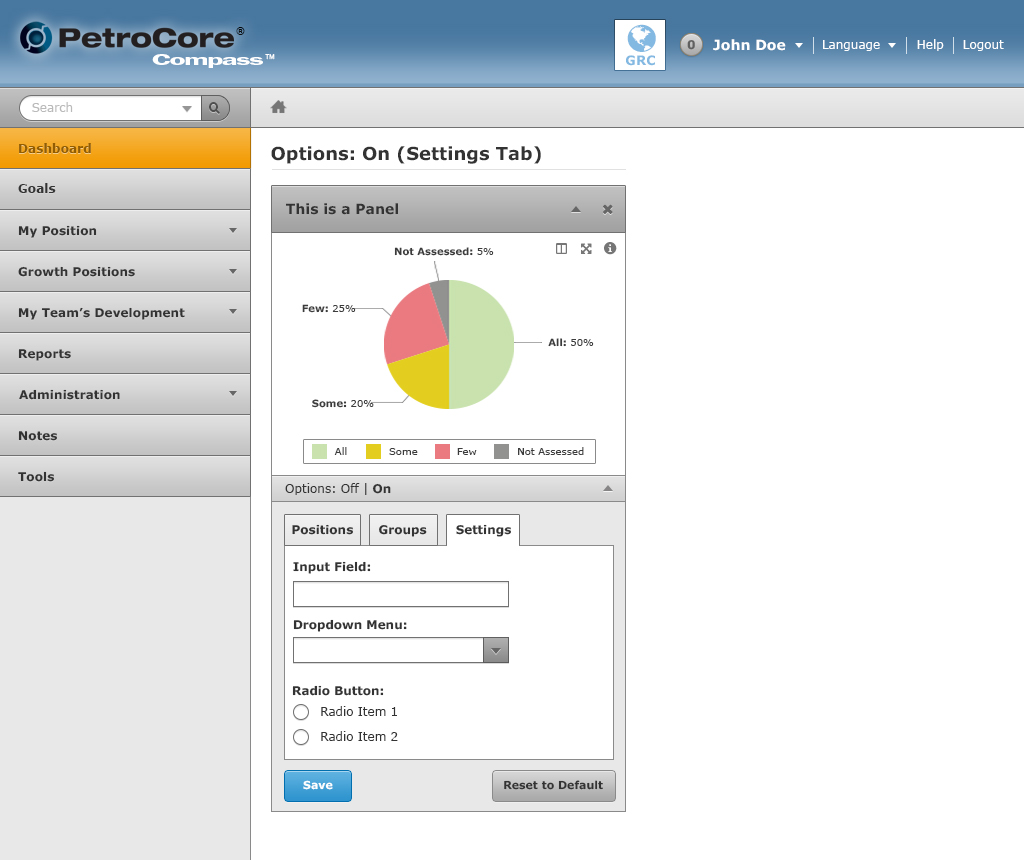
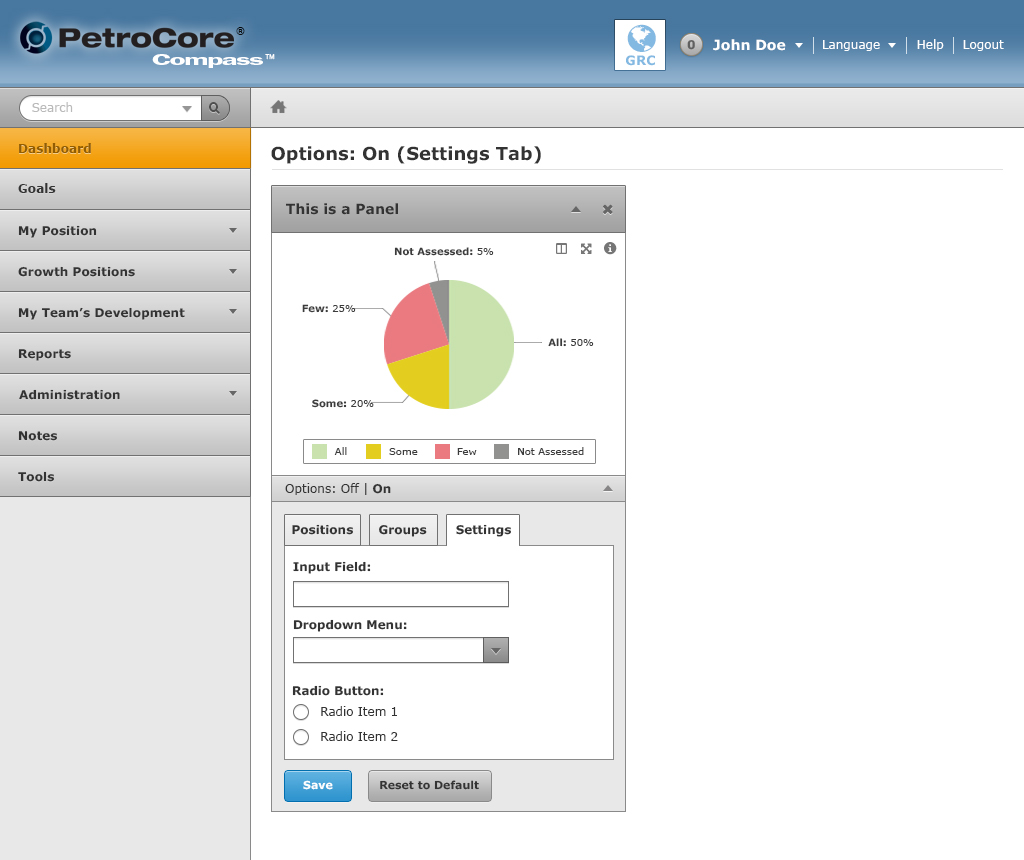
#368, #900, #1053, #1107. Update all screenshots with new button placement standards (dashboard panels). Add page for Add/Remove participant screenshot. Add button placement standards.

Changed region(s): [[0.3438, 0.8767, 0.625, 0.9372]]

diff --git a/add-remove-participant.html b/add-remove-participant.html
@@ -63,8 +63,8 @@
     <li><a href="tables.html">Patterns</a></li>
     <li class="active"><a href="add-activity.html">Design Examples</a>
       <ul class="subitems">
-          <li class="active"><a href="add-activity.html">Add Activity</a></li>
-          <li><a href="add-remove-participant.html">Add/Remove Direct Participant</a></li>
+          <li><a href="add-activity.html">Add Activity</a></li>
+          <li class="active"><a href="add-remove-participant.html">Add/Remove Direct Participant</a></li>
           <li><a href="assessment-wizard.html">Assessment Wizard</a></li>
           <li><a href="dashboard.html">Dashboard</a></li>
           <li><a href="history.html">History</a></li>
@@ -88,24 +88,12 @@
 
   </div>
     <div class="nine columns">
-       <h2>Add Activity</h2>
-          <p>When a user clicks on the "Add Activity" button from their Development Plan page, they will be redirected to a page (shown below) that lets the user to add an existing activity or a new activity to their plan.</p>
-          <p><strong>Note:</strong> Previously, the "Add Activity" area would show up in a modal/pop-up window. It is now being change to a page redirect because this area shows more data than before and would not fit in a modal/pop-up window.</p>
+       <h2>Add/Remove Direct Participant</h2>
+          <p>Morbi leo risus, porta ac consectetur ac, vestibulum at eros. Cras justo odio, dapibus ac facilisis in, egestas eget quam. Nulla vitae elit libero, a pharetra augue.</p>
+          <p><strong>Note:</strong> Curabitur blandit tempus porttitor. Maecenas faucibus mollis interdum.</p>
 
-          <hr>
-
-          <h3>Existing Activity</h3>
-          <p>When the "Add Activity" page is loaded, the "Existing Activity" is chosen as a default. The user has to modify two settings:</p>
-          <ul class="square">
-            <li><strong>Search Activities:</strong> User can search for the activity by name and/or code. This feature has a auto-completion filter. As the user types each character, the search results will filter according to what was typed. For example, if the user types in "a", all search results with the letter "a" will display.</li>
-            <li><strong>Date Information:</strong> Once the user selects their activity (shown in "Your Selection", they must assign some date information to it.</li>
-          </ul>
-          <img src="images/petrocore-add-activity-existing.jpg" alt="Existing Activity" style="border: 1px solid #717171;"><br><br>
-          <hr>
-
-          <h3>Create New Activity</h3>
-          <p>When the user selects the "Create New Activity" radio button, the page will load a new tab that displays the information shown below. The user needs to input all information in order to proceed with this step.</p>
-          <img src="images/petrocore-add-activity-new.jpg" alt="Create New Activity" style="border: 1px solid #717171;"><br><br><br>
+          <img src="images/add-remove-direct-relationship.jpg" alt="Add/Remove Direct Relationship" style="border: 1px solid #717171;"><br><br>
+          <p>&nbsp;</p>
 
           </div>
     </div>

diff --git a/buttons.html b/buttons.html
@@ -105,9 +105,42 @@
             <li><strong>Hover</strong> = when the button is hovered by a mouse, press/click on, and by touch (on a touch screen).</li>
             <li><strong>Disabled</strong> = when the button is disabled so that it cannot be interacted with.</li>
           </ul>
+
+          <hr>
+          
+          <h2>Button Placement</h2>
+          <p>Integer posuere erat a ante venenatis dapibus posuere velit aliquet. Praesent commodo cursus magna, vel scelerisque nisl consectetur et. Donec sed odio dui. Curabitur blandit tempus porttitor.</p>
+          <p>Vivamus sagittis lacus vel augue laoreet rutrum faucibus dolor auctor.:</p>
+          <ul class="square">
+            <li><strong>Lorem Ipsum</strong> Maecenas faucibus mollis interdum. Integer posuere erat a ante venenatis dapibus posuere velit aliquet.</li>
+            <li><strong>Lorem Ipsum</strong>Maecenas faucibus mollis interdum. Integer posuere erat a ante venenatis dapibus posuere velit aliquet.</li>
+            <li><strong>Lorem Ipsum</strong>Maecenas faucibus mollis interdum. Integer posuere erat a ante venenatis dapibus posuere velit aliquet.</li>
+            <li><strong>Lorem Ipsum</strong>Maecenas faucibus mollis interdum. Integer posuere erat a ante venenatis dapibus posuere velit aliquet.</li>
+          </ul>
+
+          <h3>Page Actions</h3>
+          <p> Aenean lacinia bibendum nulla sed consectetur. Morbi leo risus, porta ac consectetur ac, vestibulum at eros.</p>
+          <p><img src="images/button-placement-page-actions.jpg" alt="Buttons" style="border: 1px solid #717171;"></p>
+
+          <hr>
+
+          <h3>Form Button Groups</h3>
+          <p> Aenean lacinia bibendum nulla sed consectetur. Morbi leo risus, porta ac consectetur ac, vestibulum at eros.</p>
+          <p><img src="images/button-placement-form.jpg" alt="Buttons" style="border: 1px solid #717171;"></p>
+
+          <hr>
+          
+          <h3>Popups</h3>
+          <p> Aenean lacinia bibendum nulla sed consectetur. Morbi leo risus, porta ac consectetur ac, vestibulum at eros.</p>
+          <p><img src="images/button-placement-popup.jpg" alt="Buttons" style="border: 1px solid #717171;"></p>
+
+          <hr>
+          
+          <h3>Dashboard Panels</h3>
+          <p> Aenean lacinia bibendum nulla sed consectetur. Morbi leo risus, porta ac consectetur ac, vestibulum at eros.</p>
+          <p><img src="images/button-placement-dashboard-panel.jpg" alt="Buttons" style="border: 1px solid #717171;"></p>
+
           <p>&nbsp;</p>
-
-
 
     </div>
   </div>

diff --git a/charts.html b/charts.html
@@ -113,14 +113,14 @@
       <p>Chart Filters have an <strong>Off</strong> or <strong>On</strong> setting. When the setting is set to <strong>Off</strong>, it means that the chart displays default data. No custom settings will be set on the chart. Also, the slide-out menu will be disabled (indicated by the greyed-out arrow).</p>
       <p>If the setting is set to <strong>On</strong>, any custom settings that the user has made on the chart will be applied. The slide-out menu will be enabled (indicated by the darker grey arrow). Users can click on the arrow or anywhere in the row to slide out the menu to see more options.</p>
       <h4>Groups (tab)</h4>
-      <p><img src="images/chart-filters/petrocore-interface-new-panels-filters-groups.jpg" alt="Chart Filters - Groups (tab)" style="border: 1px solid #717171;"></p>
+      <p><img src="images/petrocore-interface-new-panels-filters-groups.jpg" alt="Chart Filters - Groups (tab)" style="border: 1px solid #717171;"></p>
       <p>This tab allows you to change what groups will be used for displaying data in the chart. It also allows you to select participants that are "Directly assigned to me".</p>
       <h4>Positions (tab)</h4>
-      <p><img src="images/chart-filters/petrocore-interface-new-panels-filters-positon.jpg" alt="Chart Filters - Positions (tab)" style="border: 1px solid #717171;"></p>
+      <p><img src="images/petrocore-interface-new-panels-filters-positon.jpg" alt="Chart Filters - Positions (tab)" style="border: 1px solid #717171;"></p>
       <p>This tab allows you to change what positions will be used for displaying data in the chart.</p>
       
       <h4>Settings (tab)</h4>
-      <p><img src="images/chart-filters/petrocore-interface-new-panels-filters-settings.jpg" alt="Chart Filters - Settings (tab)" style="border: 1px solid #717171;"></p>
+      <p><img src="images/petrocore-interface-new-panels-filters-settings.jpg" alt="Chart Filters - Settings (tab)" style="border: 1px solid #717171;"></p>
       <p>This tab is open or available to contain a form. More information will be available soon.</p>
       <p>&nbsp;</p>
    

diff --git a/dashboard.html b/dashboard.html
@@ -65,6 +65,7 @@
     <li class="active"><a href="add-activity.html">Design Examples</a>
       <ul class="subitems">
           <li><a href="add-activity.html">Add Activity</a></li>
+          <li><a href="add-remove-participant.html">Add/Remove Direct Participant</a></li>          
           <li><a href="assessment-wizard.html">Assessment Wizard</a></li>
           <li class="active"><a href="dashboard.html">Dashboard</a></li>
           <li><a href="history.html">History</a></li>

diff --git a/assessment-wizard.html b/assessment-wizard.html
@@ -65,6 +65,7 @@
     <li class="active"><a href="add-activity.html">Design Examples</a>
       <ul class="subitems">
           <li><a href="add-activity.html">Add Activity</a></li>
+          <li><a href="add-remove-participant.html">Add/Remove Direct Participant</a></li>
           <li class="active"><a href="assessment-wizard.html">Assessment Wizard</a></li>
           <li><a href="dashboard.html">Dashboard</a></li>
           <li><a href="history.html">History</a></li>

diff --git a/history.html b/history.html
@@ -64,6 +64,7 @@
     <li class="active"><a href="add-activity.html">Design Examples</a>
       <ul class="subitems">
           <li><a href="add-activity.html">Add Activity</a></li>
+          <li><a href="add-remove-participant.html">Add/Remove Direct Participant</a></li>
           <li><a href="assessment-wizard.html">Assessment Wizard</a></li>
           <li><a href="dashboard.html">Dashboard</a></li>
           <li class="active"><a href="history.html">History</a></li>

diff --git a/reports.html b/reports.html
@@ -64,6 +64,7 @@
     <li class="active"><a href="add-avtivity.html">Design Examples</a>
       <ul class="subitems">
           <li><a href="add-activity.html">Add Activity</a></li>
+          <li><a href="add-remove-participant.html">Add/Remove Direct Participant</a></li>          
           <li><a href="assessment-wizard.html">Assessment Wizard</a></li>
           <li><a href="dashboard.html">Dashboard</a></li>
           <li><a href="history.html">History</a></li>

diff --git a/search-results.html b/search-results.html
@@ -64,6 +64,7 @@
     <li class="active"><a href="add-activity.html">Design Examples</a>
       <ul class="subitems">
           <li><a href="add-activity.html">Add Activity</a></li>
+          <li><a href="add-remove-participant.html">Add/Remove Direct Participant</a></li>
           <li><a href="assessment-wizard.html">Assessment Wizard</a></li>
           <li><a href="dashboard.html">Dashboard</a></li>
           <li><a href="history.html">History</a></li>

diff --git a/subpage.html b/subpage.html
@@ -64,6 +64,7 @@
     <li class="active"><a href="add-activity.html">Design Examples</a>
       <ul class="subitems">
           <li><a href="add-activity.html">Add Activity</a></li>
+          <li><a href="add-remove-participant.html">Add/Remove Direct Participant</a></li>
           <li><a href="assessment-wizard.html">Assessment Wizard</a></li>
           <li><a href="dashboard.html">Dashboard</a></li>
           <li><a href="history.html">History</a></li>
